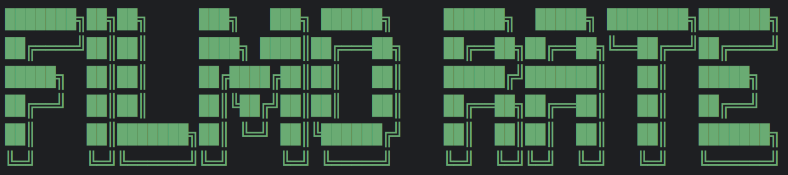
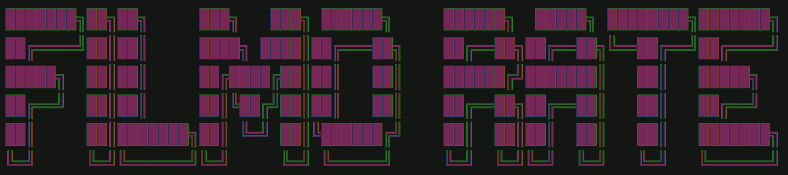
readme

diff --git a/README.md b/README.md
@@ -122,7 +122,9 @@ mindmap
 ```
 
 ### Схема базы данных (Database map)
-![DatabaseMap](.img/FILMO_RATE_DATABASE_MAP.png "Database map:")
+
+<img alt="DatabaseMap" src=".img/FILMO_RATE_DATABASE_MAP_DARK.png" title="Database map:" width="800"/>
+
 ### Примеры запросов к базе данных:
 1. Get TOP-10 films:
 ```sql
